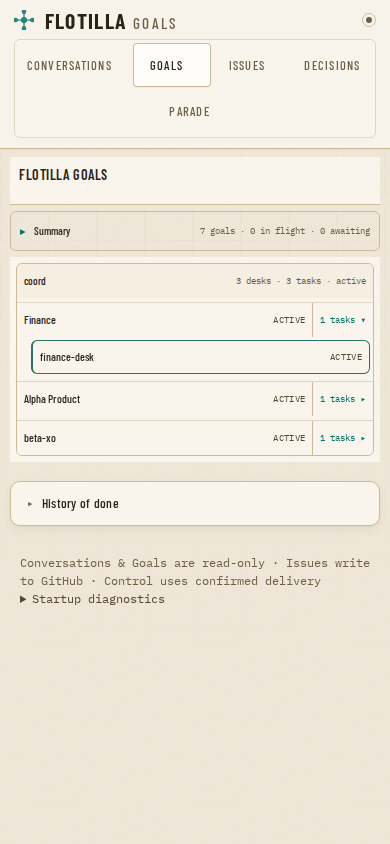
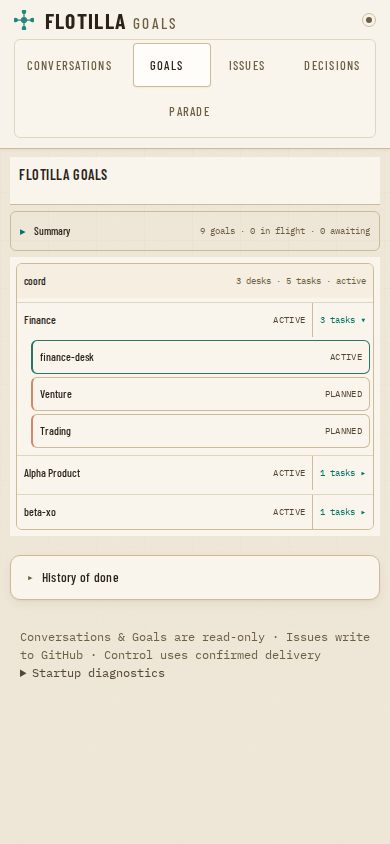
fix(dash): reuse authored Goals owner roots

diff --git a/internal/dash/goals_org_test.go b/internal/dash/goals_org_test.go
@@ -190,3 +190,72 @@ func TestDeskHubFor_DoesNotBorrowFirstRoot(t *testing.T) {
 		t.Fatalf("unrelated channel borrowed first root or owner task: id=%q depth=%d", id, depth)
 	}
 }
+
+func TestMaterializeDesks_ReusesAuthoredOwnerRootAndInternalSubtree(t *testing.T) {
+	in := GoalsInputs{
+		FileOK: true,
+		File: GoalsFile{Version: 1, Goals: []Goal{
+			// Explicit task scope reproduces a production-shaped authored owner root
+			// whose semantic role is a container despite rendering as task.
+			{ID: "office-root", Title: "Alpha Office", Scope: ScopeTask, Owner: "office-xo"},
+			{ID: "venture", Title: "Venture", Scope: ScopeProject, Parent: "office-root", Owner: "office-xo"},
+			{ID: "trading", Title: "Trading", Scope: ScopeProject, Parent: "office-root", Owner: "office-xo"},
+			// Nested task with the same owner is deliberately not a candidate hub.
+			{ID: "nested-task", Title: "Internal task", Scope: ScopeTask, Parent: "venture", Owner: "office-xo"},
+		}},
+		MetaXO: "coord",
+		Channels: []DeskChannel{
+			{ChannelID: "C_CMD", XOAgent: "coord", Members: []string{"coord", "office-xo", "office-desk"}},
+			{ChannelID: "C_OFFICE", XOAgent: "office-xo", Members: []string{"coord", "office-desk"}},
+		},
+		OrgParents: map[string]string{
+			"office-xo":   "coord",
+			"office-desk": "office-xo",
+		},
+		OrgSource: "derived",
+	}
+	doc := BuildGoals(in)
+	byID := make(map[string]RenderedGoal)
+	ownerNodes := 0
+	for _, g := range doc.Goals {
+		byID[g.ID] = g
+		if g.Owner == "office-xo" && (g.OrgHub || g.Scope == "flotilla" || (g.Layout != nil && g.Layout.HubCenter)) {
+			ownerNodes++
+		}
+		if g.ID == "hub:office-xo" {
+			t.Error("must not synthesize a parallel owner hub")
+		}
+	}
+	if ownerNodes != 1 {
+		t.Errorf("owner hub count=%d want 1; goals=%+v", ownerNodes, doc.Goals)
+	}
+	root := byID["office-root"]
+	if !root.OrgHub || root.Parent != "hub:coord" {
+		t.Errorf("authored root not adopted/reparented: %+v", root)
+	}
+	for _, id := range []string{"venture", "trading"} {
+		if byID[id].Parent != "office-root" {
+			t.Errorf("%s parent=%q want office-root", id, byID[id].Parent)
+		}
+	}
+	if byID["nested-task"].Parent != "venture" {
+		t.Errorf("nested task moved: %+v", byID["nested-task"])
+	}
+	if byID["desk:office-desk"].Parent != "office-root" {
+		t.Errorf("office desk parent=%q want office-root", byID["desk:office-desk"].Parent)
+	}
+	if len(doc.OrgDiagnostics) != 0 {
+		t.Errorf("same-owner subtree or aligned desk produced diagnostics: %v", doc.OrgDiagnostics)
+	}
+}
+
+func TestOrgOwnerDiagnostics_PreservesRealCrossOwnerMismatch(t *testing.T) {
+	doc := GoalsDoc{Goals: []RenderedGoal{
+		{ID: "parent", Owner: "wrong-xo", Scope: "flotilla"},
+		{ID: "child", Owner: "desk", Scope: "desk", Parent: "parent"},
+	}}
+	got := orgOwnerDiagnostics(&doc, GoalsInputs{OrgParents: map[string]string{"desk": "right-xo"}})
+	if len(got) != 1 || !strings.Contains(got[0], "right-xo") || !strings.Contains(got[0], "wrong-xo") {
+		t.Fatalf("real mismatch must remain diagnostic, got %v", got)
+	}
+}

diff --git a/internal/dash/goals.go b/internal/dash/goals.go
@@ -298,6 +298,10 @@ type RenderedGoal struct {
 	// materialized from the roster/topology (a first-class desk not written as a goal —
 	// #324 Inc 2). Lets the UI distinguish live-roster desks and group them (Inc 3).
 	Source string `json:"source,omitempty"`
+	// OrgHub is an internal build marker. It lets an authored root whose declared
+	// scope renders as task remain the selected owner hub after reparenting. It is
+	// never serialized; the public hierarchy is expressed by Parent/Children.
+	OrgHub bool `json:"-"`
 	// Brief is a NODE-level decision package (markdown) rendered in the respond modal (#347).
 	Brief string `json:"brief,omitempty"`
 	// AchievedAt is the RFC3339 stamp of this goal's latest OBSERVED transition to
@@ -546,6 +550,9 @@ func orgOwnerDiagnostics(doc *GoalsDoc, in GoalsInputs) []string {
 		}
 		ownerKey := strings.ToLower(strings.TrimSpace(g.Owner))
 		parentOwner := strings.ToLower(strings.TrimSpace(pg.Owner))
+		if ownerKey == parentOwner {
+			continue // same-owner purpose/subtree edge is internal, not an org mismatch
+		}
 		orgParent := strings.ToLower(strings.TrimSpace(in.OrgParents[ownerKey]))
 		if orgParent == "" {
 			continue // channels/org assert no parent for this owner
@@ -712,6 +719,9 @@ func materializeRosterDesks(doc *GoalsDoc, in GoalsInputs) {
 		if id, depth, ok := hubNodeForOwner(doc, owner); ok {
 			return id, depth, true
 		}
+		if id, depth, ok := adoptAuthoredOwnerRoot(doc, owner); ok {
+			return id, depth, true
+		}
 		if ensuring[owner] { // the org loader validates cycles; remain fail-closed here too
 			return "", -1, false
 		}
@@ -727,7 +737,7 @@ func materializeRosterDesks(doc *GoalsDoc, in GoalsInputs) {
 			Owner: owner, ConversationAgent: owner, Parent: parentID,
 			Layout: &GoalLayout{HubCenter: true}, Status: string(StatusActive),
 			StatusDisplay: "active", Depth: parentDepth + 1,
-			Children: []string{}, WorkItems: []RenderedWorkItem{}, Source: "roster",
+			Children: []string{}, WorkItems: []RenderedWorkItem{}, Source: "roster", OrgHub: true,
 		}
 		doc.Goals = append(doc.Goals, node)
 		countNode(&doc.Counts, node)
@@ -755,7 +765,7 @@ func materializeRosterDesks(doc *GoalsDoc, in GoalsInputs) {
 	// a peer root whose desks can be swallowed by whichever root was listed first.
 	for i := range doc.Goals {
 		g := &doc.Goals[i]
-		if g.Scope != "flotilla" && g.Scope != "fleet" {
+		if g.Scope != "flotilla" && g.Scope != "fleet" && !g.OrgHub {
 			continue
 		}
 		owner := strings.ToLower(strings.TrimSpace(g.Owner))
@@ -881,8 +891,8 @@ func reorderRenderedGoals(doc *GoalsDoc) {
 }
 
 // hubNodeForOwner finds a real goals hub owned by agent (lowercased). A task or
-// arbitrary leaf owned by an XO is not a hierarchy container; callers materialize
-// a dedicated org hub instead of hanging desks from that leaf.
+// arbitrary nested leaf owned by an XO is not a hierarchy container; only an
+// explicitly adopted authored root may carry OrgHub outside flotilla scope.
 func hubNodeForOwner(doc *GoalsDoc, ownerKey string) (id string, depth int, ok bool) {
 	if ownerKey == "" || doc == nil {
 		return "", 0, false
@@ -893,7 +903,7 @@ func hubNodeForOwner(doc *GoalsDoc, ownerKey string) (id string, depth int, ok b
 		if strings.ToLower(strings.TrimSpace(g.Owner)) != ownerKey {
 			continue
 		}
-		if g.Layout != nil && g.Layout.HubCenter {
+		if g.OrgHub || (g.Layout != nil && g.Layout.HubCenter) {
 			return g.ID, g.Depth, true
 		}
 	}
@@ -907,6 +917,31 @@ func hubNodeForOwner(doc *GoalsDoc, ownerKey string) (id string, depth int, ok b
 		}
 	}
 	return "", 0, false
+}
+
+// adoptAuthoredOwnerRoot reuses an authored owner root even when its declared
+// scope renders as task. Root-ness and authored source are the safety boundary:
+// an arbitrary nested owner task remains ineligible. Prefer a root that already
+// has authored children, then preserve file order.
+func adoptAuthoredOwnerRoot(doc *GoalsDoc, ownerKey string) (id string, depth int, ok bool) {
+	if ownerKey == "" || doc == nil {
+		return "", 0, false
+	}
+	best := -1
+	for i := range doc.Goals {
+		g := &doc.Goals[i]
+		if g.Source != "" || g.Parent != "" || strings.ToLower(strings.TrimSpace(g.Owner)) != ownerKey {
+			continue
+		}
+		if best < 0 || (len(g.Children) > 0 && len(doc.Goals[best].Children) == 0) {
+			best = i
+		}
+	}
+	if best < 0 {
+		return "", 0, false
+	}
+	doc.Goals[best].OrgHub = true
+	return doc.Goals[best].ID, doc.Goals[best].Depth, true
 }
 
 // deskHubFor picks only an explicit channel hub: topology_channel_id first, then

diff --git a/internal/dash/goals_hierarchy_browser_test.go b/internal/dash/goals_hierarchy_browser_test.go
@@ -14,7 +14,11 @@ func goalsHierarchyFixture766() GoalsDoc {
 	return BuildGoals(GoalsInputs{
 		FileOK: true,
 		File: GoalsFile{Version: 1, Goals: []Goal{
-			{ID: "finance", Title: "Finance", Description: "Finance example hub", Scope: ScopeFlotilla, Owner: "finance-xo"},
+			// Finance is an authored owner root whose declared task scope reproduces
+			// the collision that previously created a parallel synthetic owner hub.
+			{ID: "finance", Title: "Finance", Description: "Finance example hub", Scope: ScopeTask, Owner: "finance-xo"},
+			{ID: "venture", Title: "Venture", Scope: ScopeProject, Parent: "finance", Owner: "finance-xo"},
+			{ID: "trading", Title: "Trading", Scope: ScopeProject, Parent: "finance", Owner: "finance-xo"},
 			{ID: "alpha", Title: "Alpha Product", Description: "Alpha example hub", Scope: ScopeFlotilla, Owner: "alpha-xo"},
 		}},
 		MetaXO: "coord",
@@ -76,9 +80,12 @@ with sync_playwright() as p:
         desktop.goto(url, wait_until="domcontentloaded")
         desktop.locator("#tab-goals").click()
         expect(desktop.locator('.gnode[data-id="hub:coord"]')).to_be_visible()
+        expect(desktop.locator('.gnode[data-id="hub:finance-xo"]')).to_have_count(0)
         for child in ["finance", "alpha", "hub:beta-xo"]:
             expect(desktop.locator('.gnode[data-id="%s"]' % child)).to_have_attribute("data-parent", "hub:coord")
         expect(desktop.locator('.gnode[data-id="desk:finance-desk"]')).to_have_attribute("data-parent", "finance")
+        expect(desktop.locator('.gnode[data-id="venture"]')).to_have_attribute("data-parent", "finance")
+        expect(desktop.locator('.gnode[data-id="trading"]')).to_have_attribute("data-parent", "finance")
         expect(desktop.locator('.gnode[data-id="desk:alpha-desk"]')).to_have_attribute("data-parent", "alpha")
         expect(desktop.locator('.gnode[data-id="desk:beta-desk"]')).to_have_attribute("data-parent", "hub:beta-xo")
         if evidence_dir: